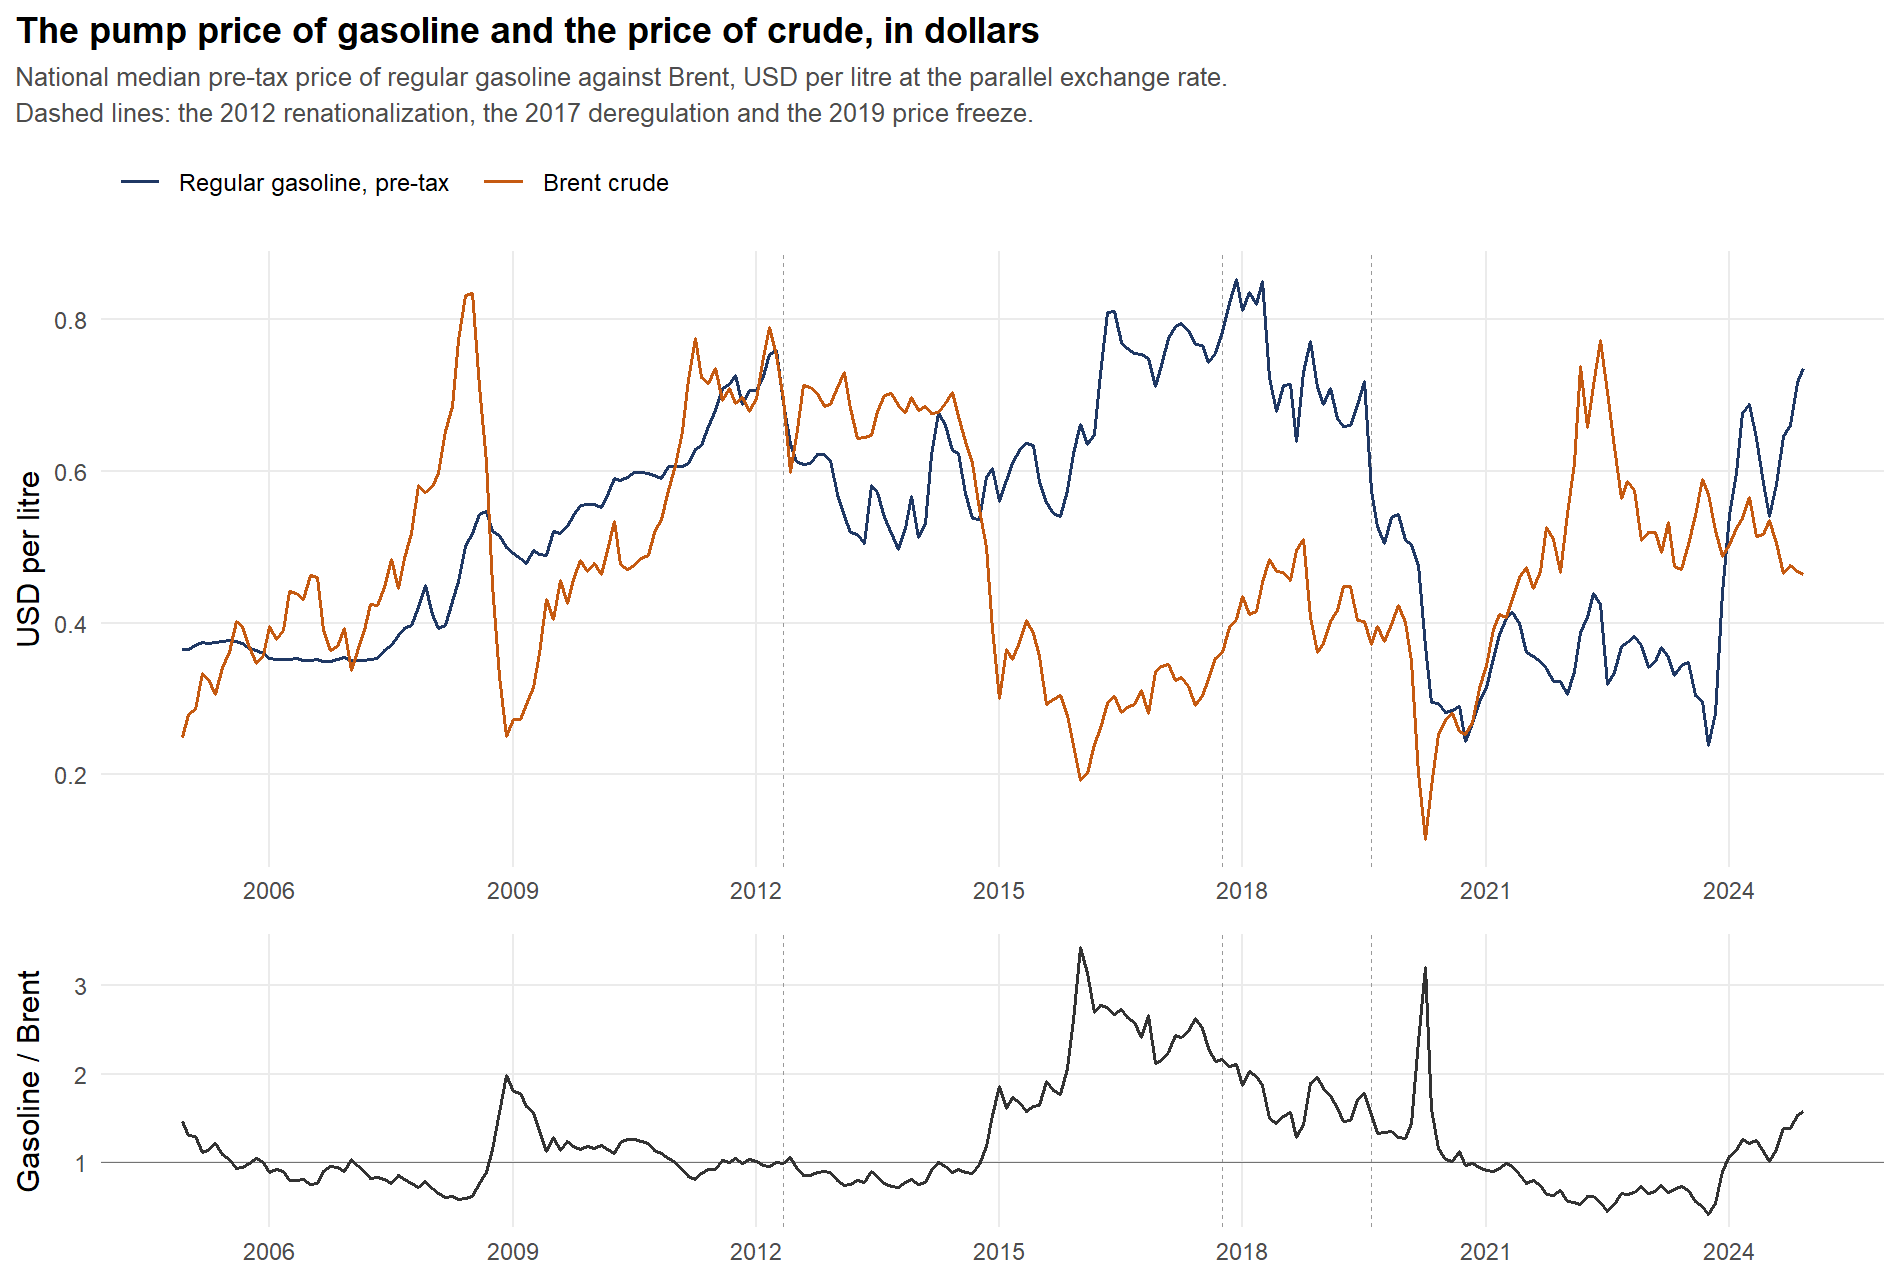
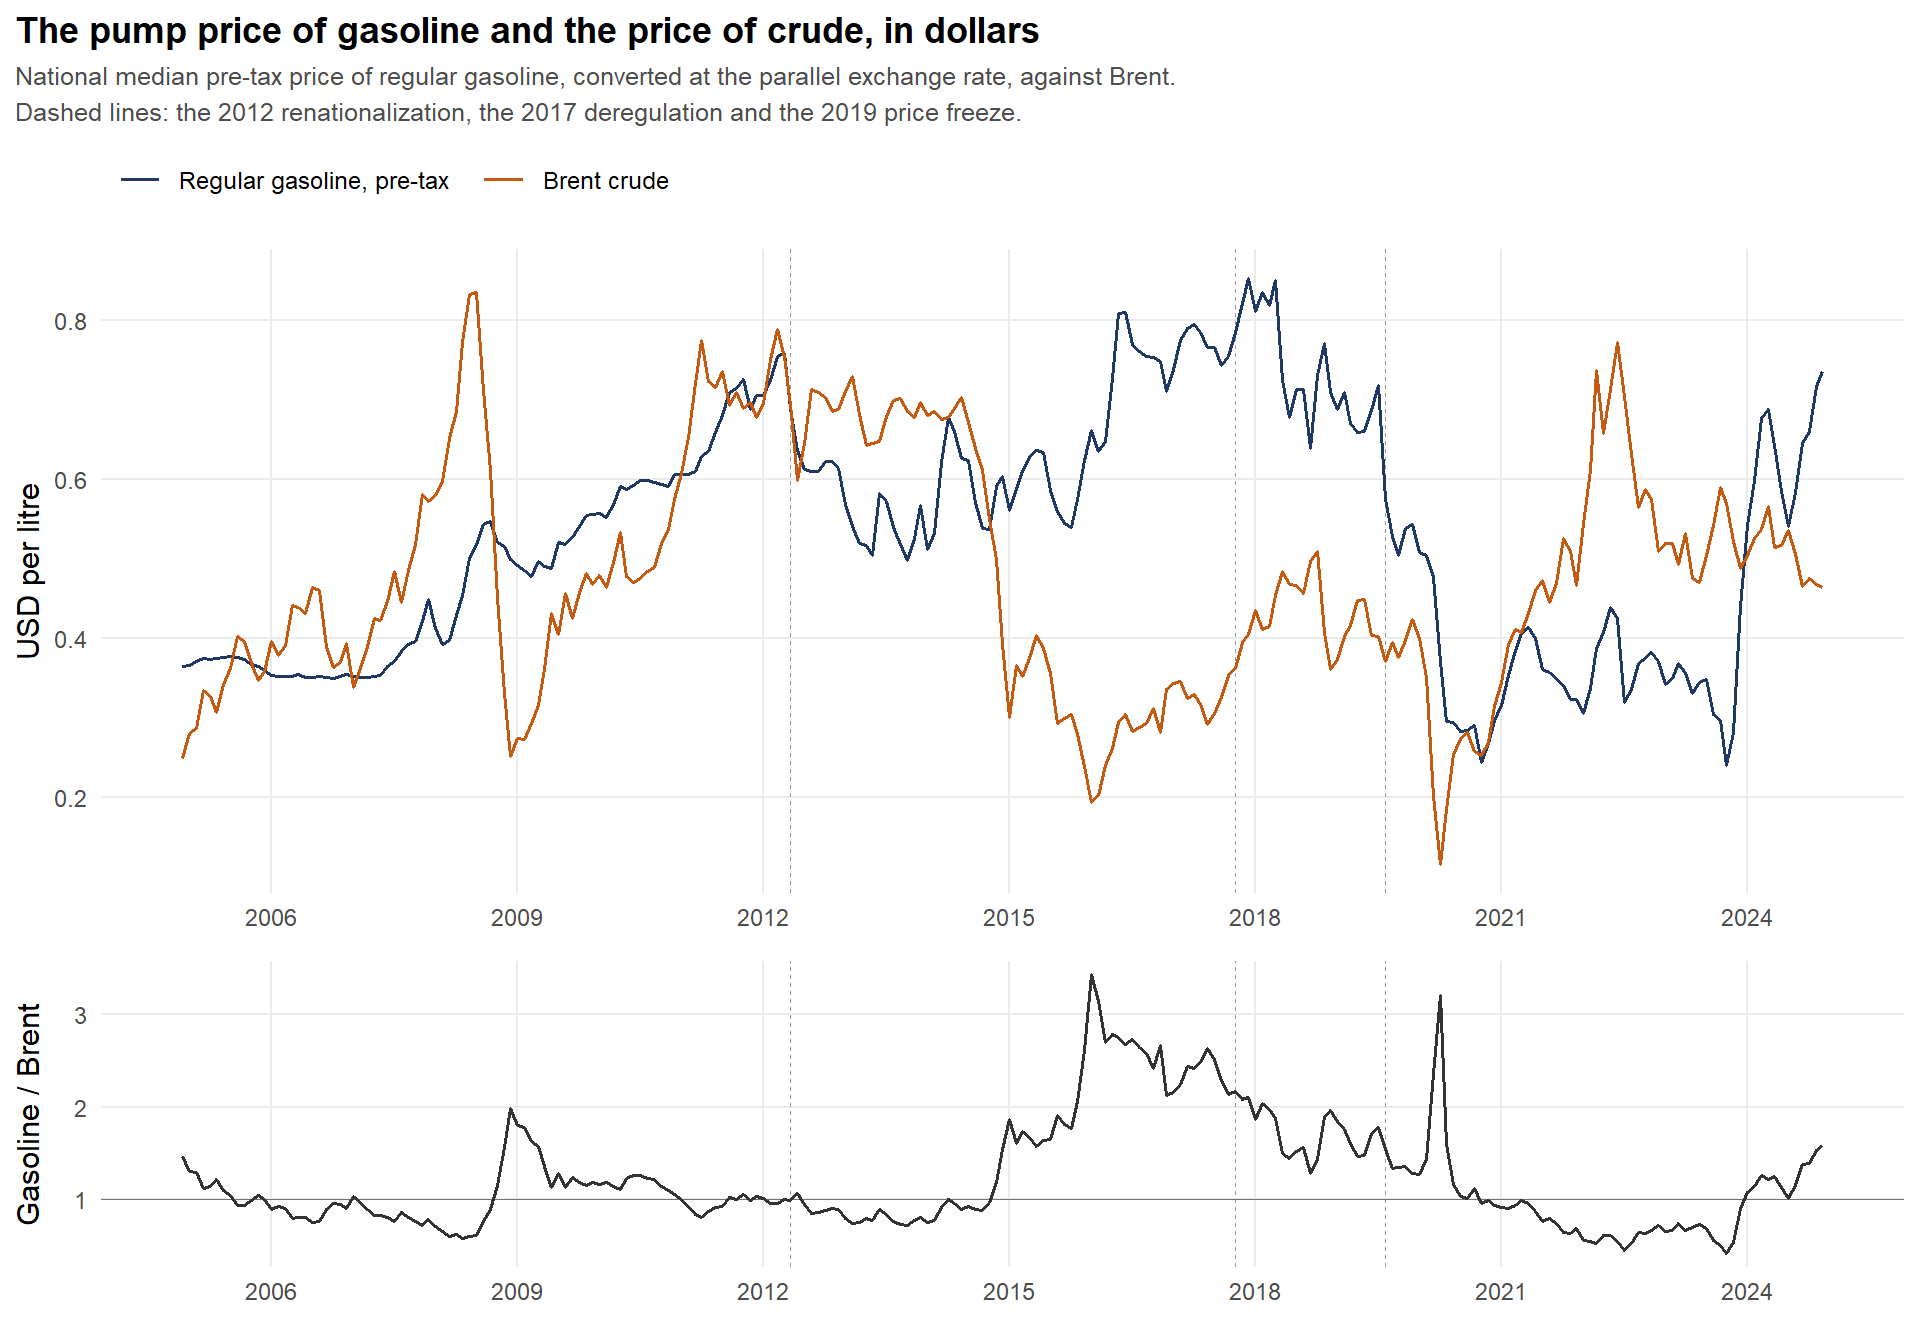
Redraw the front page: keep the monthly series visible, and stop claiming what the figure cannot show
The first figure now shows the monthly gap behind the mean of each
government, which the points alone hid: the Repsol years average -2% for
gasoline over swings from +1% to -13%.

The title no longer says the gap tracks the government rather than the
owner. In the first block the two cannot be separated, because YPF was
privately owned only in years when prices were also administered; the
caption says so. The captions also declare the 40% trim, describe the
interval as the spread of locality means rather than a cluster-robust
one, report where the unbranded outlets sit, and correct the claim that
Brent was converted at the parallel rate: Brent is quoted in dollars.

diff --git a/README.md b/README.md
@@ -10,7 +10,7 @@ This repository contains the data work the estimation builds on: the station-lev
 
 ![YPF's price gap against the private brands, by government](docs/figures/ypf_private_gap_by_government.png)
 
-*Mean price gap of YPF against the large private brands, taken within the same locality and month, by government. Negative values mean YPF is cheaper. Green points are the unbranded outlets, measured against the same benchmark. Intervals are 95%, with localities as clusters. Two things stand out: the gap is already there in 2005-2012, while YPF was owned by Repsol, and it closes, or reverses, over 2016-2019, the years pump prices were free. Drawn by `code/figure_readme.R`, which is the estimate of figure R3 of `code/10_descriptives.R` grouped by government instead of by pricing regime.*
+*Price of YPF against the large private brands, compared within the same locality and month, so the gap is not driven by where each brand sits. The grey line is the median across localities, month by month; the blue segment is the mean of each government with an interval from the spread of locality means. Two things to note. The gap is already there in 2005-2012, while YPF belonged to Repsol, and it closes over 2016-2019, the only years pump prices were free. And ownership cannot be separated from policy here: YPF was privately owned only in years when prices were also being negotiated with the government, which is why the thesis identifies the weight on consumer surplus from the pricing conditions rather than from this comparison. The unbranded outlets, not drawn, sit above the large private brands in every block, by 0.6 to 4 percent. Drawn by `code/figure_readme.R`.*
 
 ## Data
 
@@ -87,7 +87,7 @@ Market structure and brand shares, the YPF-private price gap, volumes and report
 
 ![Pump price of regular gasoline against Brent](docs/figures/pump_price_vs_brent.png)
 
-*National median pre-tax price of regular gasoline against Brent, both in USD per litre at the parallel exchange rate, which is the one that keeps the series comparable over a period when the official rate was held far from the market. The bottom panel is the ratio of the two, so a value of one means the litre at the pump, before taxes, was worth a litre of crude. Dashed lines mark the 2012 renationalization, the 2017 deregulation and the 2019 price freeze. Drawn by `code/figure_readme.R`, from the series that section 5 of `code/10_descriptives.R` writes.*
+*National median pre-tax price of regular gasoline against Brent, in USD per litre. Brent is quoted in dollars; the pump price is converted at the parallel exchange rate, which is the one that keeps the series comparable over a period when the official rate was held far from the market. The bottom panel is the ratio of the two. It is a comparison, not a margin: YPF refines domestic crude, which was priced well below Brent in several of these years. Dashed lines mark the 2012 renationalization, the 2017 deregulation and the 2019 price freeze. Drawn by `code/figure_readme.R` from the series that section 5 of `code/10_descriptives.R` writes.*
 
 ## Some things the data required
 
